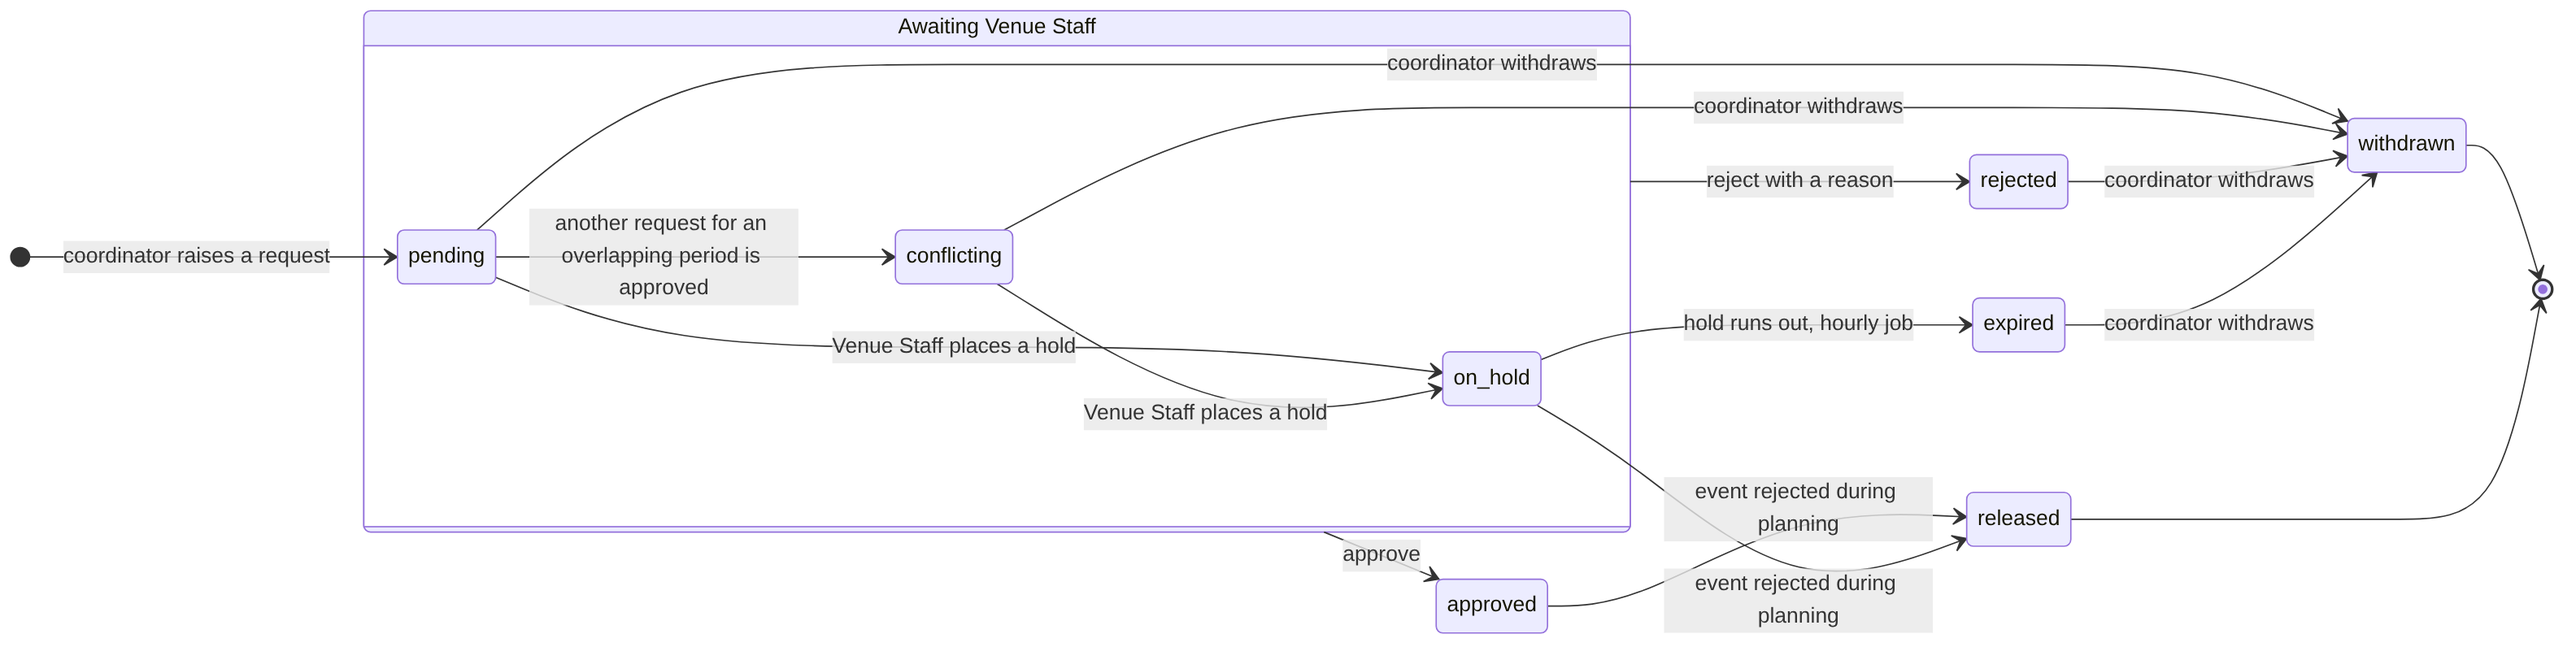
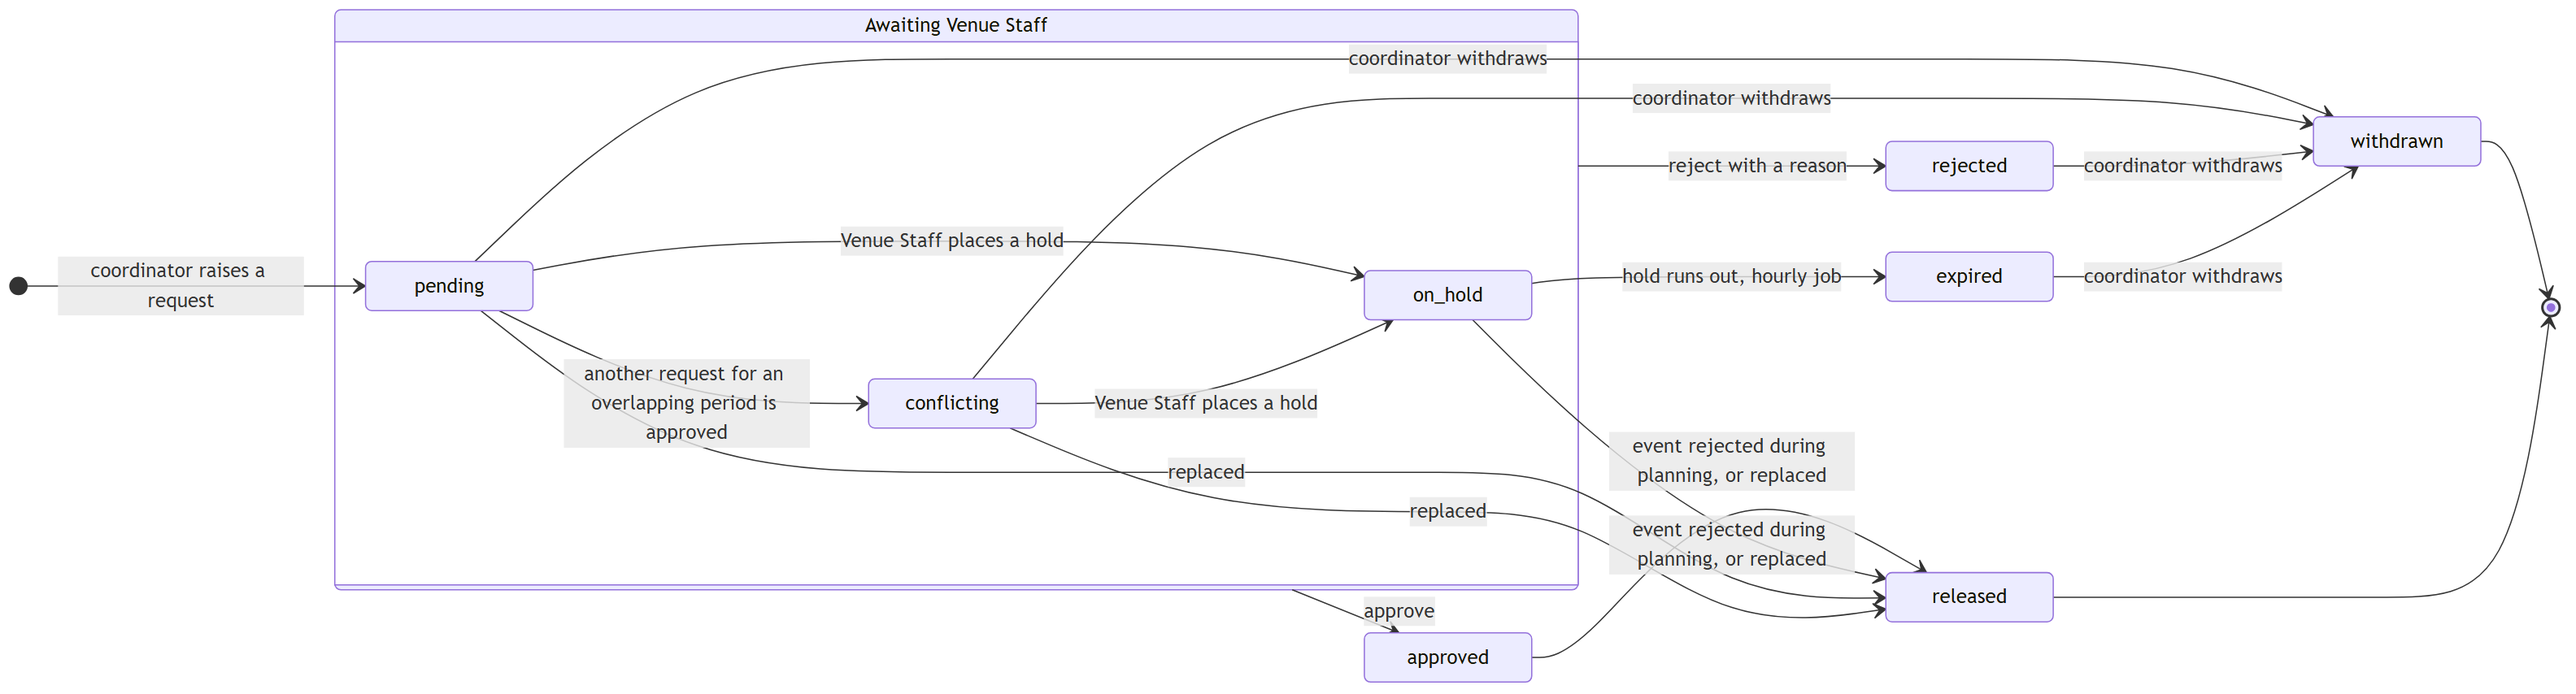
docs(SCRUM-78): show an approved replacement releasing the arrangement it replaces
The venue booking request state diagram reached released only through a
rejection during planning. Approving a replacement venue releases the
arrangement it replaces too, whether that one is pending, conflicting, on
hold or approved (decide_booking_request, _release_replaced,
UNAVAILABILITY_FLAGGABLE_STATUSES; SCRUM-92 AC7, ADR-0053, ADR-0100). Draw
those transitions, and say in the notes that a rejection during planning
withdraws the requests not yet holding a venue (release_event_arrangements,
ADR-0093). PNG re-rendered from the Mermaid source.

diff --git a/docs/architecture/06-uml-state-diagrams.md b/docs/architecture/06-uml-state-diagrams.md
@@ -78,8 +78,10 @@ stateDiagram-v2
   rejected --> withdrawn : coordinator withdraws
   expired --> withdrawn : coordinator withdraws
 
-  approved --> released : event rejected during planning
-  on_hold --> released : event rejected during planning
+  approved --> released : event rejected during planning, or replaced
+  on_hold --> released : event rejected during planning, or replaced
+  pending --> released : replaced
+  conflicting --> released : replaced
 
   withdrawn --> [*]
   released --> [*]
@@ -89,5 +91,10 @@ stateDiagram-v2
   `conflicting`. Setup and turnaround time count towards the clash (ADR-0011, ADR-0045).
 - A hold has an expiry that Venue Staff set. The job warns the coordinator 24 hours before and expires the
   hold when the time passes (ADR-0052).
+- *Replaced*: when Venue Staff approve a replacement for an arrangement whose venue became unavailable, the
+  arrangement it replaces is released, whether it was pending, conflicting, on hold or approved (SCRUM-92 AC7, ADR-0053,
+  ADR-0100).
+- Rejecting the event during planning withdraws its pending, conflicting, rejected and expired requests, as the
+  coordinator would, and releases the approved and on-hold ones (ADR-0093).
 - A rejected, expired or conflicting request stays on the event until the coordinator withdraws it. A
   rejected arrangement still blocks confirmation (see `docs/sprint-3-open-decisions.md`, section 1.1).
